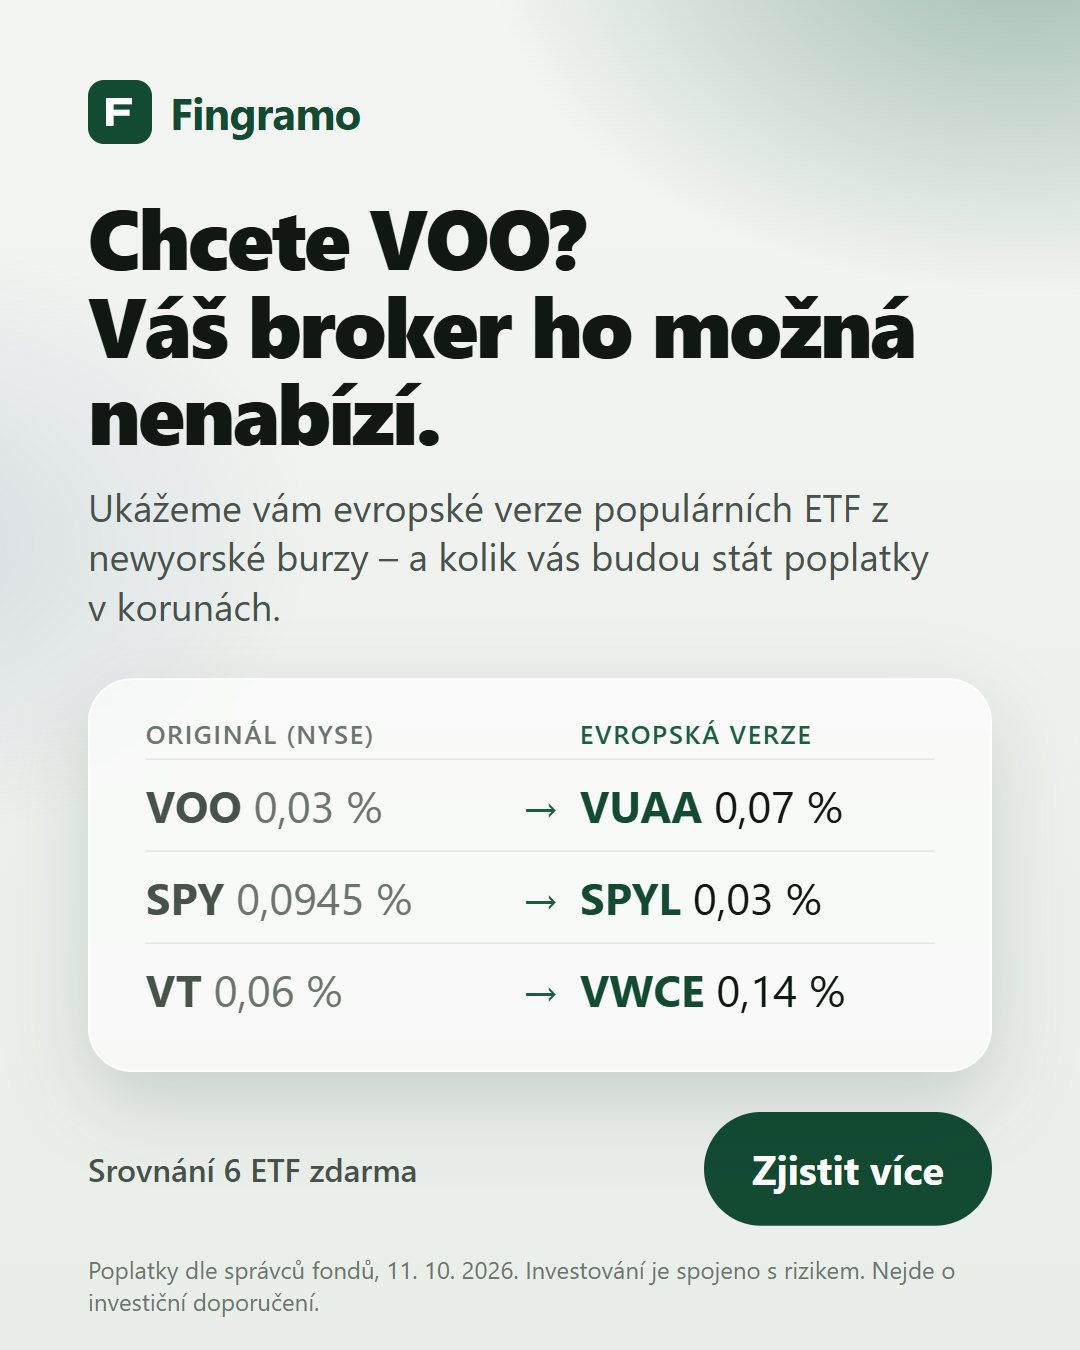
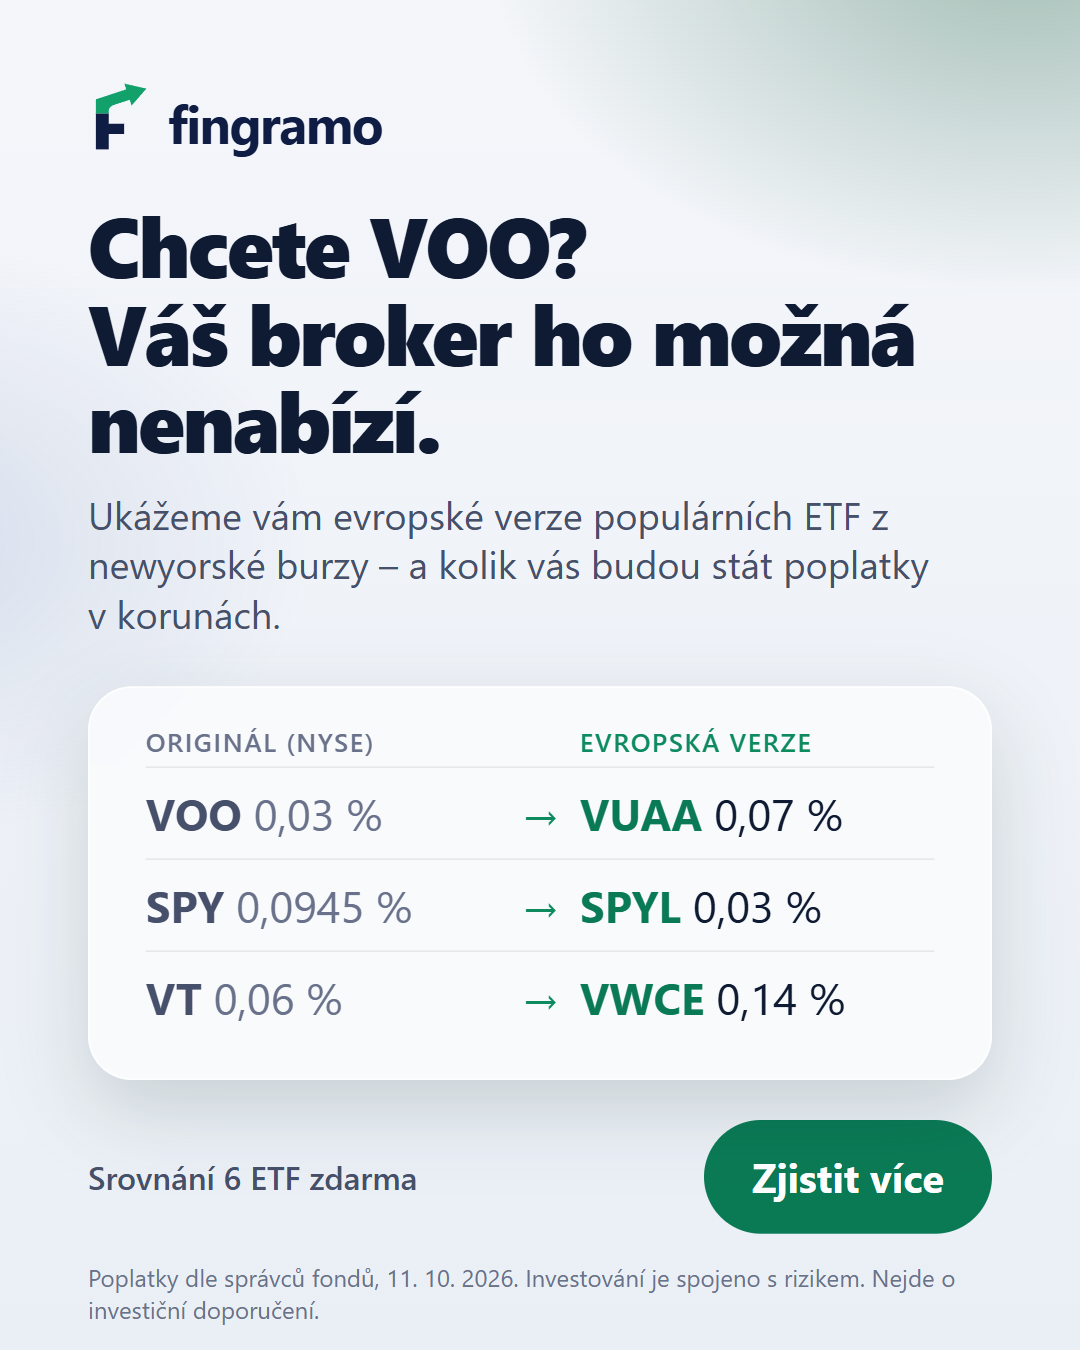
style: reklamy A i B s novým logem, znovu vyrenderované (D26)

diff --git a/ads/src/ad.html b/ads/src/ad.html
@@ -21,8 +21,9 @@
       linear-gradient(180deg, var(--c-bg) 0%, var(--c-bg-2) 100%);
   }
   .ad.f9x16 { height: 1920px; padding: 260px 88px; } /* Stories safe zone ~250px top/bottom */
-  .brand { display: flex; align-items: center; gap: 18px; font-weight: 700; font-size: 44px; color: var(--c-green-800); letter-spacing: -0.02em; }
-  .brand svg { width: 64px; height: 64px; }
+  .brand { display: flex; align-items: center; gap: 18px; font-weight: 700; font-size: 52px; color: var(--c-navy-900); letter-spacing: -0.03em; line-height: 1; }
+  .brand svg { width: 62px; height: 72px; }
+  .brand span { padding-top: 13px; } /* logo sheet (D26): wordmark sits on the stem's lower half */
   h1 { font-size: 84px; line-height: 1.04; letter-spacing: -0.03em; margin: 48px 0 0; font-weight: 800; }
   .f9x16 h1 { font-size: 104px; margin-top: 96px; }
   .sub { font-size: 38px; line-height: 1.3; color: var(--c-ink-muted); margin: 28px 0 48px; max-width: 860px; }
@@ -59,8 +60,8 @@
 <body>
   <div class="ad" id="ad">
     <div class="brand">
-      <svg viewBox="0 0 32 32" aria-hidden="true"><rect width="32" height="32" rx="8" fill="currentColor"/><path d="M9 23V9h13v3.2h-9.2v2.6h8v3.1h-8V23z" fill="#fff"/></svg>
-      Fingramo
+      <svg viewBox="0 0 48 56" aria-hidden="true"><path d="M6 26h10v8h12v8H16v12H6z" fill="var(--c-navy-900)"/><path d="M6 26V15L29.7 7.3 28.2 2.8 45.3 6.7 33.8 19.9 32.3 15.4 21 19Q16 20.6 16 24V26z" fill="var(--c-green-500)"/></svg>
+      <span>fingramo</span>
     </div>
 
     <!-- A: pain angle -->
